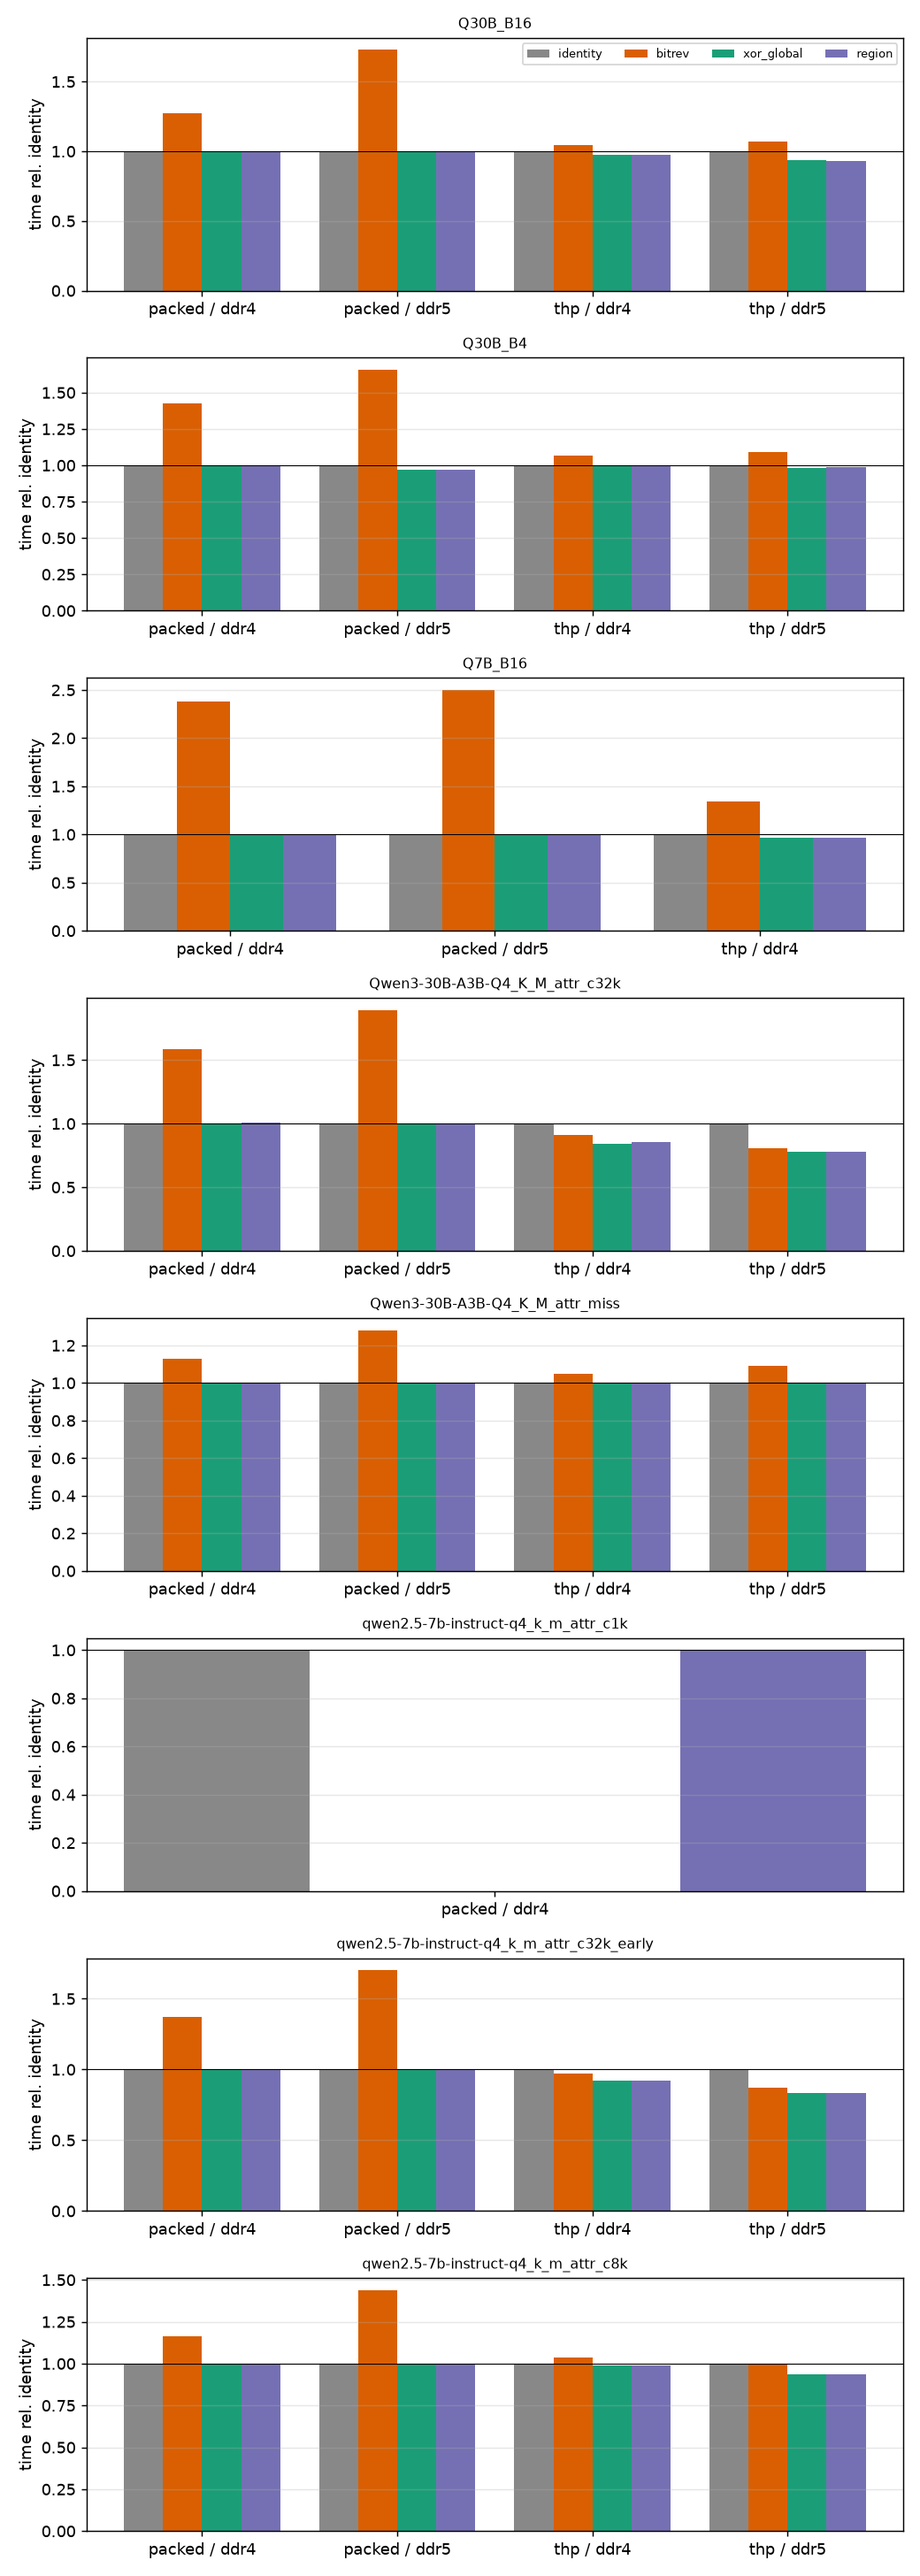
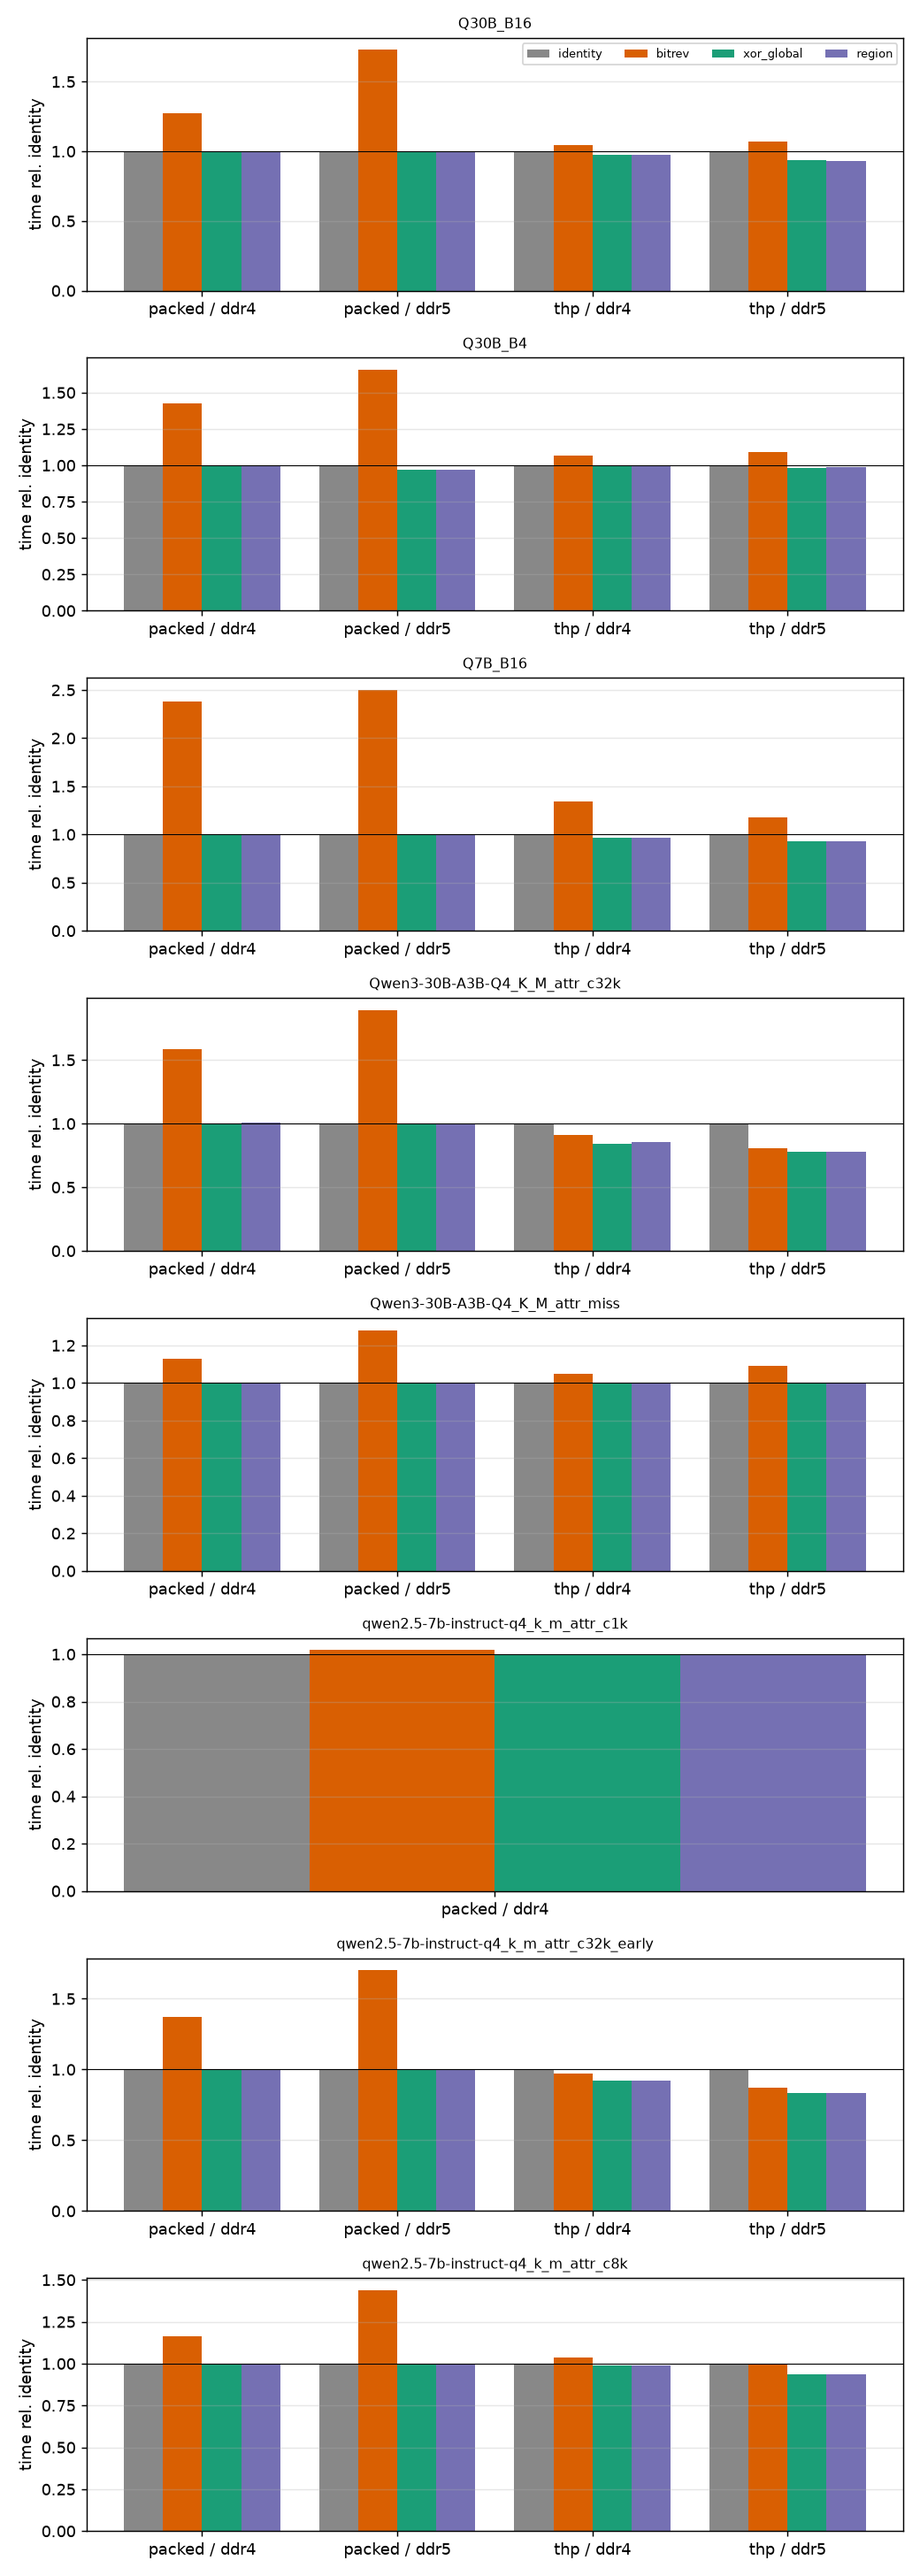
Results: region results Q7B_B16
Published automatically from the RCE cluster by tools/publish.sh.

Changed region(s): [[0.1538, 0.25, 0.9231, 0.375], [0.3385, 0.625, 0.7385, 0.75], [0.0615, 0.6562, 0.0923, 0.6875]]

diff --git a/analysis/fullscale/tables.md b/analysis/fullscale/tables.md
@@ -428,6 +428,8 @@ Each remap rewrites the read stream with the named scheme (identity = no change)
 | Q7B_B16 | packed | ddr5 | ClosedCAP | 1.00 (hit 75%) | 3.01 (hit 75%) | 0.98 (hit 75%) | 0.98 (hit 75%) |
 | Q7B_B16 | thp | ddr4 | Open | 1.00 (hit 90%) | 1.34 (hit 78%) | 0.97 (hit 92%) | 0.96 (hit 91%) |
 | Q7B_B16 | thp | ddr4 | ClosedCAP | 1.00 (hit 74%) | 1.40 (hit 72%) | 0.95 (hit 74%) | 0.94 (hit 74%) |
+| Q7B_B16 | thp | ddr5 | Open | 1.00 (hit 91%) | 1.18 (hit 86%) | 0.93 (hit 92%) | 0.93 (hit 92%) |
+| Q7B_B16 | thp | ddr5 | ClosedCAP | 1.00 (hit 74%) | 1.19 (hit 74%) | 0.86 (hit 75%) | 0.85 (hit 75%) |
 | Qwen3-30B-A3B-Q4_K_M_attr_c32k | packed | ddr4 | Open | 1.00 (hit 95%) | 1.58 (hit 89%) | 1.00 (hit 96%) | 1.01 (hit 95%) |
 | Qwen3-30B-A3B-Q4_K_M_attr_c32k | packed | ddr4 | ClosedCAP | 1.00 (hit 77%) | 2.14 (hit 77%) | 1.00 (hit 77%) | 1.01 (hit 77%) |
 | Qwen3-30B-A3B-Q4_K_M_attr_c32k | packed | ddr5 | Open | 1.00 (hit 95%) | 1.89 (hit 81%) | 1.00 (hit 96%) | 1.00 (hit 95%) |
@@ -444,8 +446,8 @@ Each remap rewrites the read stream with the named scheme (identity = no change)
 | Qwen3-30B-A3B-Q4_K_M_attr_miss | thp | ddr4 | ClosedCAP | 1.00 (hit 79%) | 1.14 (hit 78%) | 1.00 (hit 79%) | 1.00 (hit 79%) |
 | Qwen3-30B-A3B-Q4_K_M_attr_miss | thp | ddr5 | Open | 1.00 (hit 97%) | 1.09 (hit 96%) | 1.00 (hit 97%) | 1.00 (hit 97%) |
 | Qwen3-30B-A3B-Q4_K_M_attr_miss | thp | ddr5 | ClosedCAP | 1.00 (hit 78%) | 1.26 (hit 78%) | 1.00 (hit 78%) | 1.00 (hit 78%) |
-| qwen2.5-7b-instruct-q4_k_m_attr_c1k | packed | ddr4 | Open | 1.00 (hit 98%) | - | - | 1.00 (hit 98%) |
-| qwen2.5-7b-instruct-q4_k_m_attr_c1k | packed | ddr4 | ClosedCAP | 1.00 (hit 79%) | - | - | 1.00 (hit 79%) |
+| qwen2.5-7b-instruct-q4_k_m_attr_c1k | packed | ddr4 | Open | 1.00 (hit 98%) | 1.02 (hit 98%) | 1.00 (hit 98%) | 1.00 (hit 98%) |
+| qwen2.5-7b-instruct-q4_k_m_attr_c1k | packed | ddr4 | ClosedCAP | 1.00 (hit 79%) | 1.50 (hit 78%) | 0.99 (hit 79%) | 1.00 (hit 79%) |
 | qwen2.5-7b-instruct-q4_k_m_attr_c32k_early | packed | ddr4 | Open | 1.00 (hit 96%) | 1.37 (hit 91%) | 1.00 (hit 96%) | 1.00 (hit 96%) |
 | qwen2.5-7b-instruct-q4_k_m_attr_c32k_early | packed | ddr4 | ClosedCAP | 1.00 (hit 77%) | 1.80 (hit 77%) | 1.00 (hit 77%) | 1.00 (hit 77%) |
 | qwen2.5-7b-instruct-q4_k_m_attr_c32k_early | packed | ddr5 | Open | 1.00 (hit 95%) | 1.70 (hit 87%) | 1.00 (hit 95%) | 1.00 (hit 95%) |
